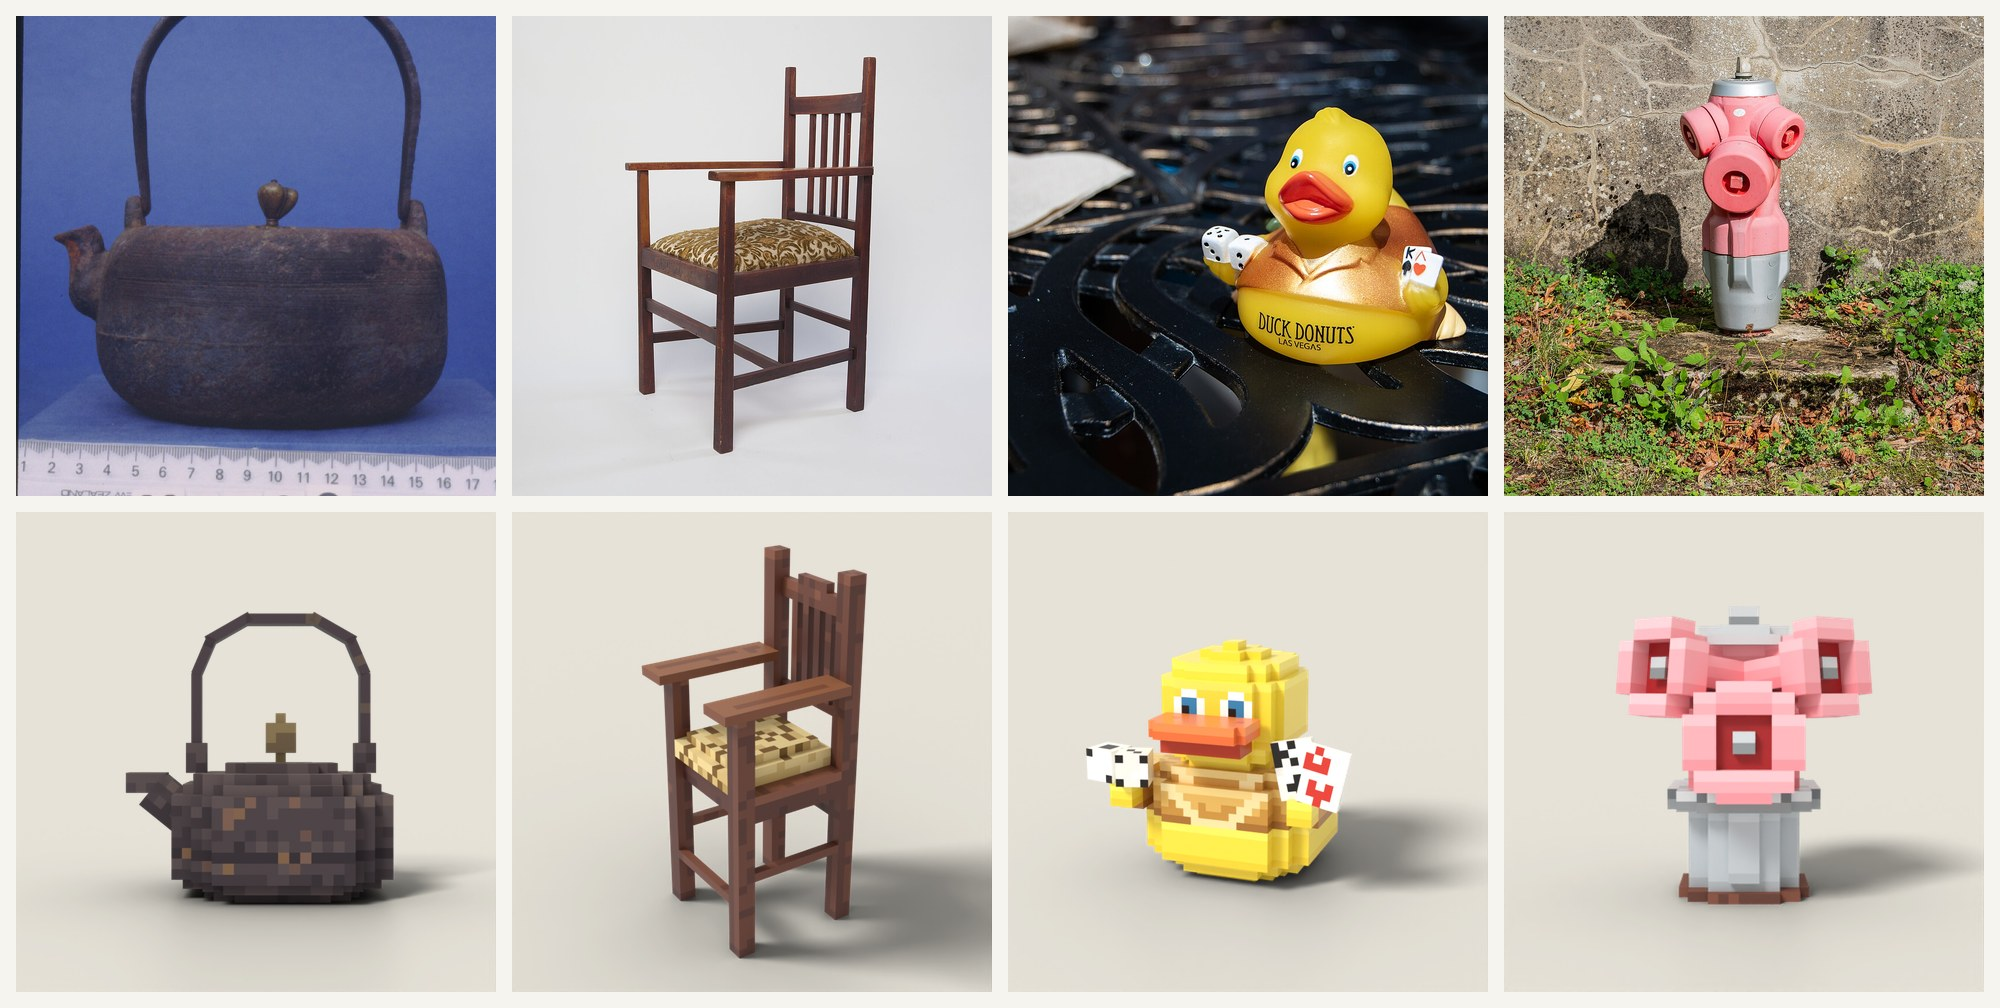
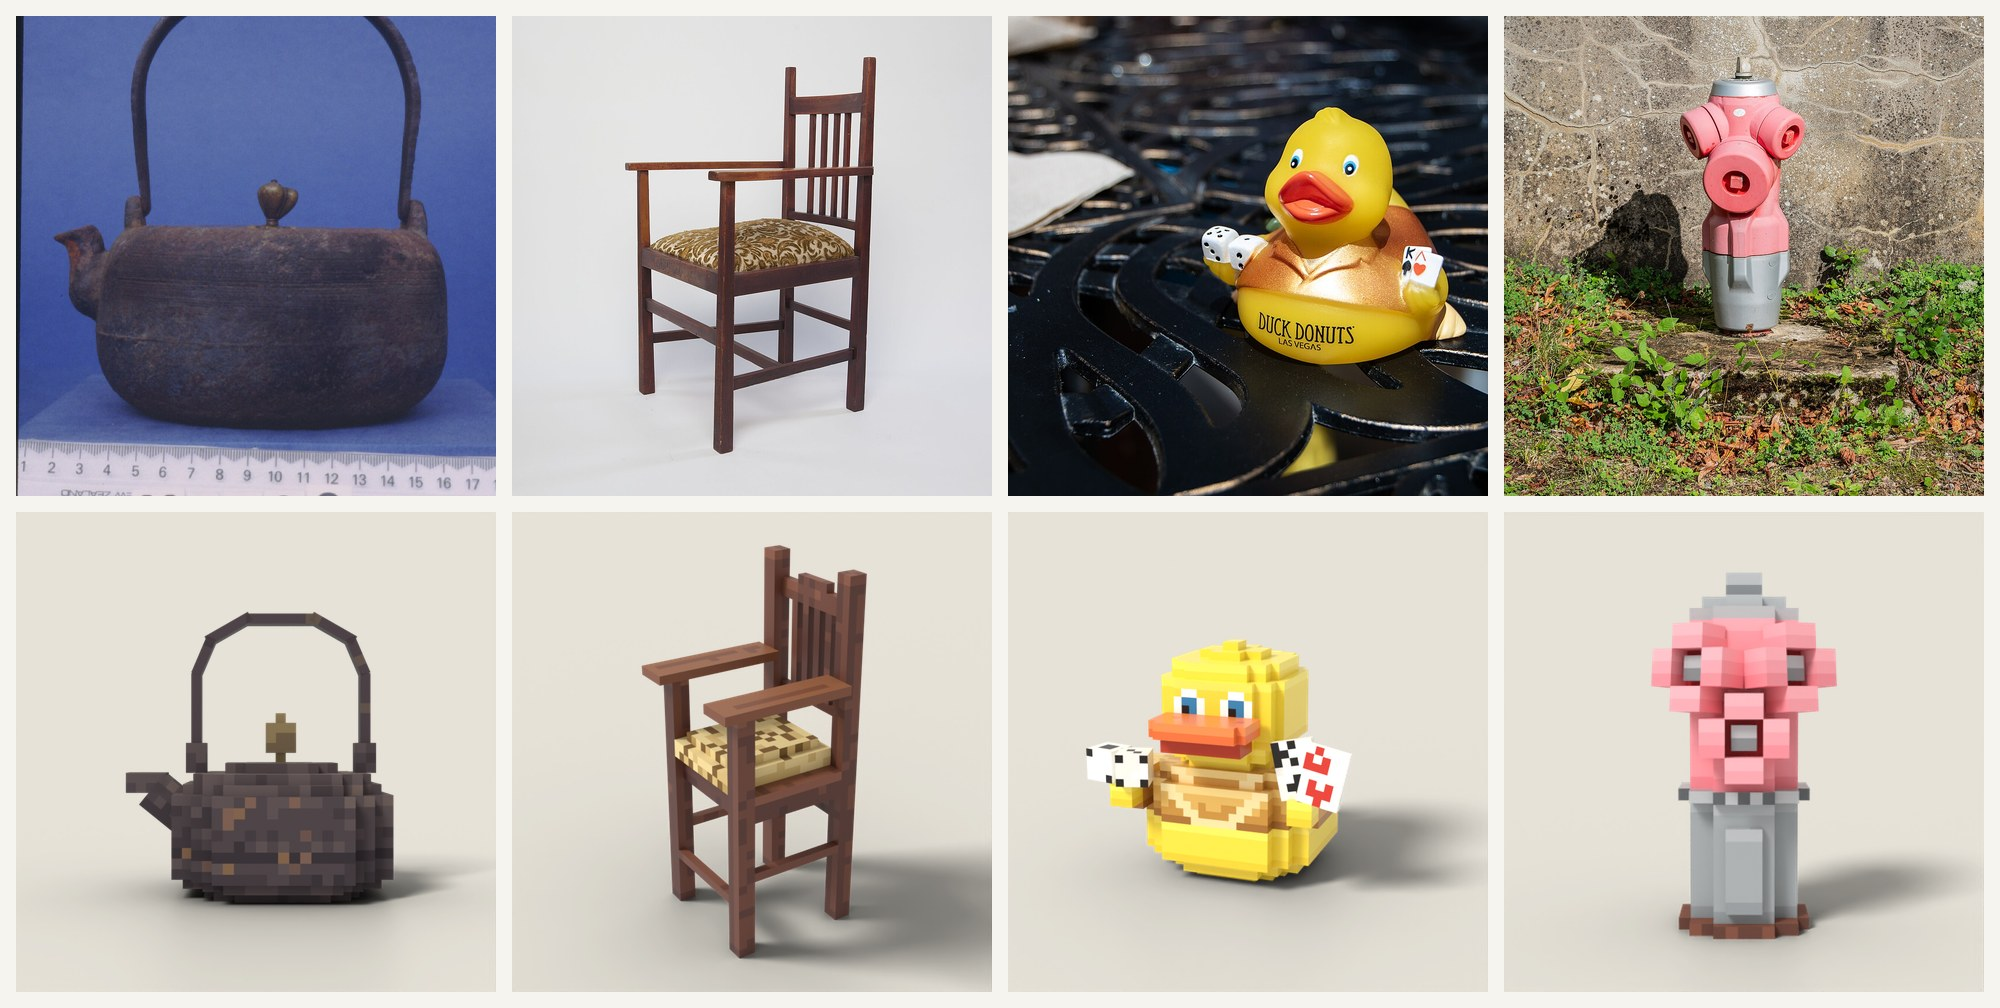
Narrow the hydrant example so it stops reading as a pink blob; release 0.1.1
Side ports are shorter and closer to the column, with 7-wide collars.
The README picture shows the new model.

Changed region(s): [[0.806, 0.5536, 0.992, 0.9534]]

diff --git a/plugins/build-minecraft-model-from-image/skills/build-minecraft-model-from-image/examples/hydrant.py b/plugins/build-minecraft-model-from-image/skills/build-minecraft-model-from-image/examples/hydrant.py
@@ -1,61 +1,59 @@
-"""French fire hydrant painted pink, nearly front-on, in a garden. 30 units tall.
-Visible: grey base with a raised front rib, pink column, big front port, two side ports aimed out and forward, dark red recess with
+"""French fire hydrant painted pink, nearly front-on, in a garden. 30 units tall, about 15 wide (the photo is about half as wide as tall).
+Visible: grey base with a raised front rib, pink column, front port, two side ports aimed out and forward, dark red recess with
 a square nut in every port, flat grey cap, operating nut on top.
 Inferred: the column is turned, so the back repeats it with the rib; the side ports sit opposite each other; the back has no port.
 A dark band under the front port is that port's shadow in the photo, not a part.
 A blind reader took the first version for a pig: side ports read as ears and the front port as a snout. What made it a hydrant:
-level ports with a flanged collar, a bolted steel flange between base and column, and a real operating nut on top."""
+level ports with a flanged collar, a bolted steel flange between base and column, and a real operating nut on top.
+Second pass (reel fix): ports pulled in close to a tall 9 wide column (stems 3 long, collar 7 wide), base and cap mid grey like the photo."""
 
 SOURCE = {"image": "source.jpg", "mask": "read/mask.png", "yaw": 0, "pitch": 4}
-BOLT = "#6f7477"
+BOLT = "#5d6265"
 
 
 def build(kit):
     materials = {
-        "pink": kit.Material(["#fbbcc2", "#f6a6ad", "#ee9199"], noise=0.15, roughness=0.5),
+        "pink": kit.Material(["#f9a9b1", "#f29aa3", "#e98791"], noise=0.15, roughness=0.5),
         "recess": kit.Material(["#c02c32", "#a32226", "#861c1e"], noise=0.15, rim=False, roughness=0.55),
-        "steel": kit.Material(["#ccd2d5", "#bcc4c8", "#adb4b7"], noise=0.15, roughness=0.45, metallic=0.25),
-        "cap": kit.Material(["#d8dcde", "#b8bec1", "#94999b"], style="metal", noise=0.2, roughness=0.35, metallic=0.5),
+        "grey": kit.Material(["#aeb2b4", "#9ea3a5", "#8d9295"], noise=0.15, roughness=0.5, metallic=0.1),
+        "cap": kit.Material(["#b9bdbf", "#a0a5a7", "#868b8e"], style="metal", noise=0.2, roughness=0.4, metallic=0.3),
         "rust": kit.Material(["#7a4a3a", "#5e3a30"], noise=0.3, rim=False),
     }
     model = kit.BlockModel(materials, seed=9)
     center_x = 8.5
     center_z = 8.5
 
-    # Base: rust foot, grey standpipe with a rib down the front and the back.
-    model.round(center_x, center_z, 0, 1, 13, "rust", corner=3, name="foot")
-    model.round(center_x, center_z, 1, 8, 11, "steel", corner=2, name="base")
-    model.box((7, 2, 14), (3, 7, 1), "steel", name="front rib")
-    model.box((7, 2, 2), (3, 7, 1), "steel", name="back rib")
+    # Base: rust foot, tall grey standpipe with a rib down the front and the back.
+    model.round(center_x, center_z, 0, 1, 11, "rust", corner=3, name="foot")
+    model.round(center_x, center_z, 1, 10, 9, "grey", corner=2, name="base")
+    model.box((7, 2, 13), (3, 7, 1), "grey", name="front rib")
+    model.box((7, 2, 3), (3, 7, 1), "grey", name="back rib")
 
-    # Bolted steel flange between base and column: a wide flat ring with bolt heads painted on its sides.
-    flange = model.round(center_x, center_z, 9, 2, 15, "cap", corner=3, name="flange")
+    # Bolted flange between base and column: a flat ring with bolt heads painted on its sides.
+    flange = model.round(center_x, center_z, 11, 1, 11, "cap", corner=3, name="flange")
     for part in flange[1:5]:
-        part.paint("front", ["o.o.o.o.o"[:part.face_size("front")[0]]], {"o": BOLT}, at=(0, 0))
-        part.paint("back", ["o.o.o.o.o"[:part.face_size("back")[0]]], {"o": BOLT}, at=(0, 0))
-        part.paint("left", ["o.o.o.o.o"[:part.face_size("left")[0]]], {"o": BOLT}, at=(0, 0))
-        part.paint("right", ["o.o.o.o.o"[:part.face_size("right")[0]]], {"o": BOLT}, at=(0, 0))
+        for face in ("front", "back", "left", "right"):
+            part.paint(face, ["o.o.o.o.o"[:part.face_size(face)[0]]], {"o": BOLT}, at=(0, 0))
 
-    # Pink column, straight, a little narrower at the top.
-    model.round(center_x, center_z, 11, 9, 11, "pink", corner=2, name="column")
-    model.round(center_x, center_z, 20, 5, 9, "pink", corner=2, name="column top")
+    # Pink column, tall and straight.
+    model.round(center_x, center_z, 12, 14, 9, "pink", corner=2, name="column")
 
     # Cap, and the operating nut every hydrant has on top.
-    model.round(center_x, center_z, 25, 1, 13, "cap", corner=3, name="cap")
-    model.round(center_x, center_z, 26, 1, 9, "cap", corner=2, name="cap top")
-    model.box((7, 27, 7), (3, 2, 3), "cap", name="operating nut")
+    model.round(center_x, center_z, 26, 1, 9, "cap", corner=2, name="cap")
+    model.round(center_x, center_z, 27, 1, 7, "cap", corner=2, name="cap top")
+    model.box((7, 28, 7), (3, 2, 3), "cap", name="operating nut")
 
-    # Front port: a stem, then a wider flanged collar with a real dent and a square nut.
-    model.disc(center_x, 16, 11, 7, 9, "pink", corner=2, name="front port stem")
-    model.disc(center_x, 16, 18, 3, 11, "pink", corner=3, recess=1, core="recess", name="front port collar")
-    model.box((7.5, 15, 20), (2, 2, 1), "cap", name="front nut")
+    # Front port: a short stem, then a flanged collar with a real dent and a square nut.
+    model.disc(center_x, 16.5, 10, 4, 5, "pink", corner=1, name="front port stem")
+    model.disc(center_x, 16.5, 14, 3, 7, "pink", corner=2, recess=2, core="recess", name="front port collar")
+    model.box((7.5, 15.5, 15), (2, 2, 1), "cap", name="front nut")
 
-    # Side ports: real barrels, aimed out and forward so their faces show. Long stem, wide collar, deep dent, nut.
+    # Side ports: short barrels close to the column, level with each other, aimed out and forward.
     for side in (-1, 1):
-        rotation = (-6, side * 42, 0)
+        rotation = (-4, side * 35, 0)
         pivot = (center_x, 21.5, center_z)
-        model.disc(center_x, 21.5, center_z + 3, 7, 7, "pink", corner=2, rotation=rotation, pivot=pivot, name="side port stem")
-        model.disc(center_x, 21.5, center_z + 10, 3, 9, "pink", corner=2, recess=2, core="recess", rotation=rotation, pivot=pivot,
+        model.disc(center_x, 21.5, center_z + 2, 3, 5, "pink", corner=1, rotation=rotation, pivot=pivot, name="side port stem")
+        model.disc(center_x, 21.5, center_z + 5, 3, 7, "pink", corner=2, recess=2, core="recess", rotation=rotation, pivot=pivot,
                    name="side port collar")
-        model.box((center_x - 1, 20.5, center_z + 11), (2, 2, 1), "cap", rotation=rotation, pivot=pivot, name="side nut")
+        model.box((center_x - 1, 20.5, center_z + 6), (2, 2, 1), "cap", rotation=rotation, pivot=pivot, name="side nut")
     return model
